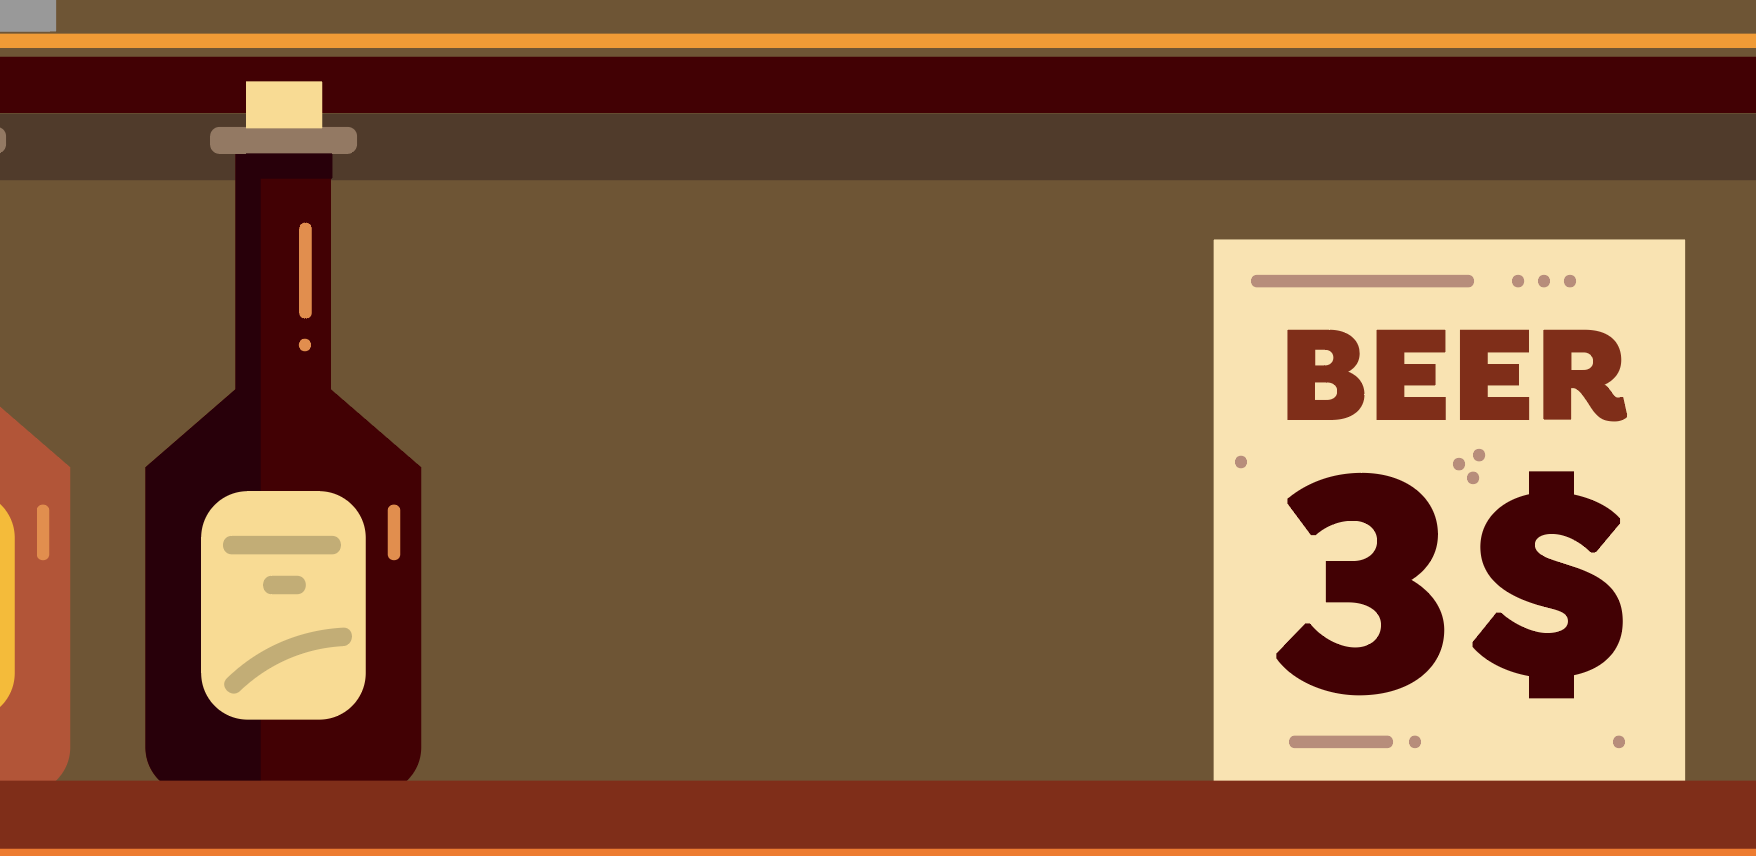
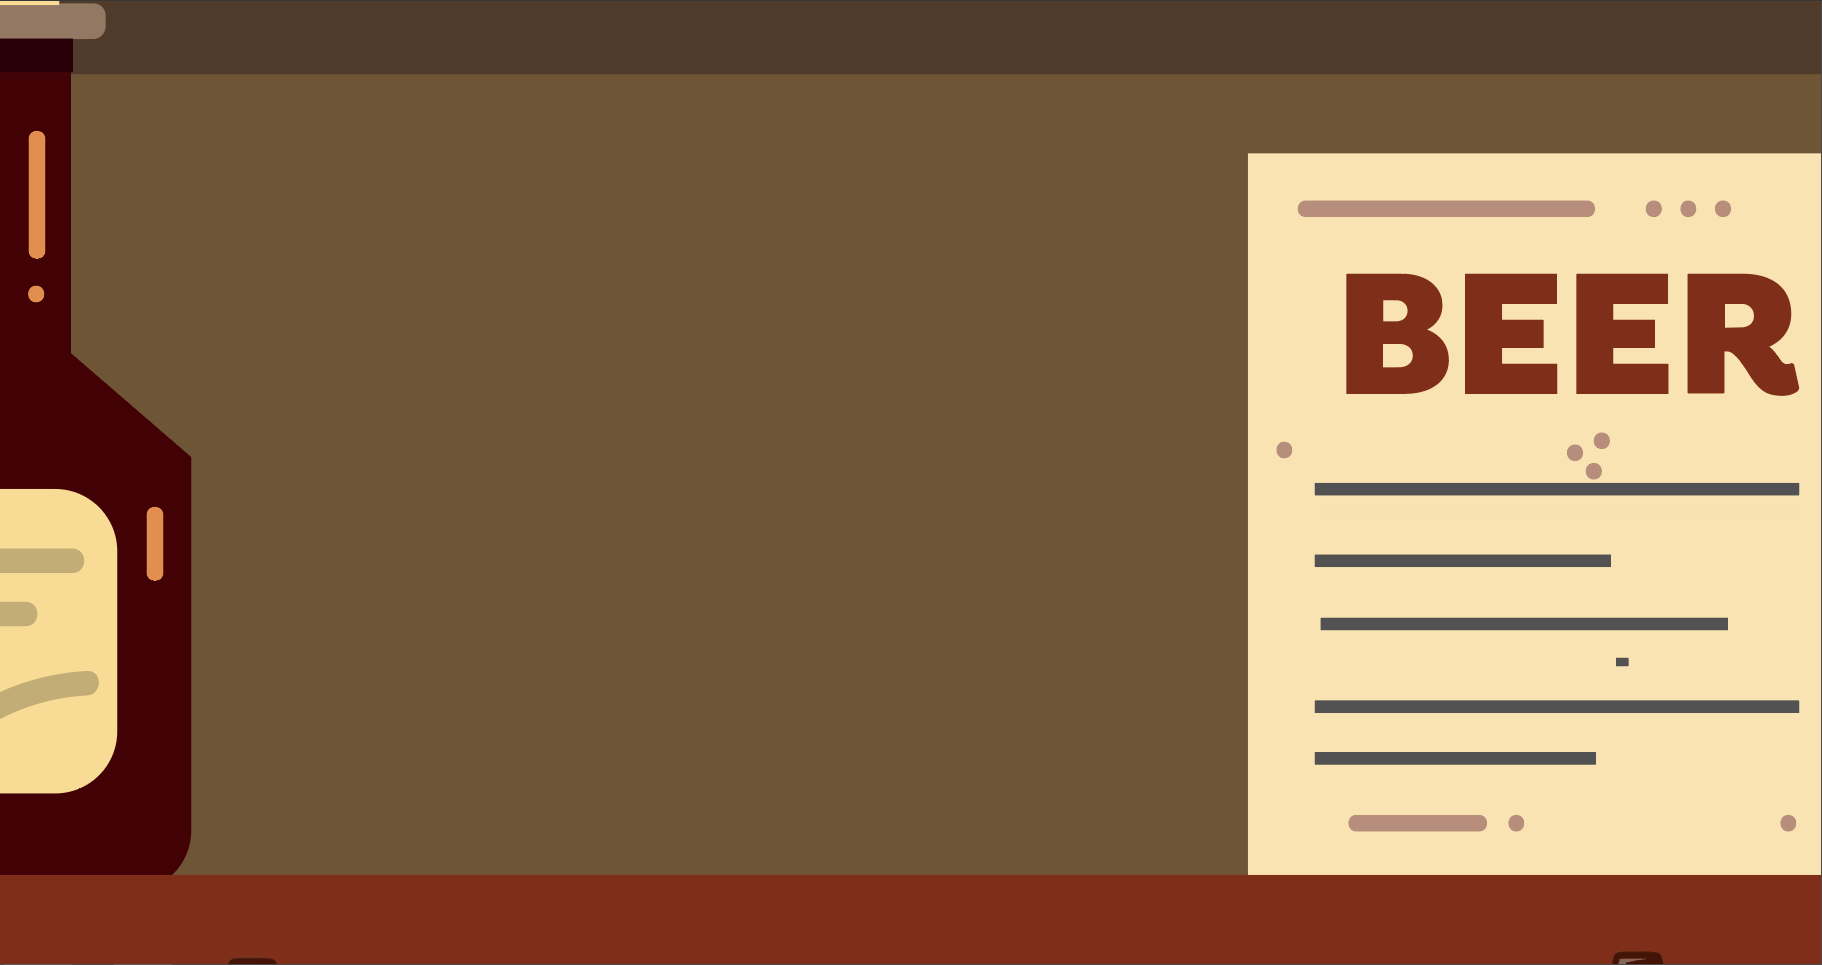
Background Beer List

diff --git a/brewers-mark/client/src/App.js b/brewers-mark/client/src/App.js
@@ -8,6 +8,7 @@ import {
 import Home from './components/Home/home.js'
 import Glass from './components/Glass/Glass.js'
 import BottlesNav from './components/Bottles/bottlesexport.js'
+import BeerList from './components/BeerList/beerlist.js'
 
 const App = () => (
   <Router>
@@ -16,6 +17,7 @@ const App = () => (
         <Route exact path="/" component={Home} />
         <Route exact path="/glass" component={Glass} />
         <Route exact path="/IPA" component={BottlesNav} />
+        <Route exact path="/beerlist" component={BeerList} />
       </Switch>
 </div>
   </Router>

diff --git a/brewers-mark/client/src/components/BeerList/beerlist.js b/brewers-mark/client/src/components/BeerList/beerlist.js
@@ -1,0 +1,24 @@
+import React, { Component } from "react";
+import $ from 'jquery'; 
+
+class BeerList extends Component {
+
+    state = {
+      beers:[]
+    };
+
+    componentDidMount(){
+        $('body').css('background-image' , 'url(./beerlistback.png)')
+      }
+
+      
+    render() {
+      return(
+  
+    <div id='beerlist'>
+    
+      </div>
+      )}
+}
+
+export default BeerList;

diff --git a/brewers-mark/client/src/components/Glass/BeerDisplay.css b/brewers-mark/client/src/components/Glass/BeerDisplay.css
@@ -1,6 +1,6 @@
 #mainglass{
 position: absolute;
-bottom: 0%;
+bottom: -3%;
 left: 40%;
 }
 
